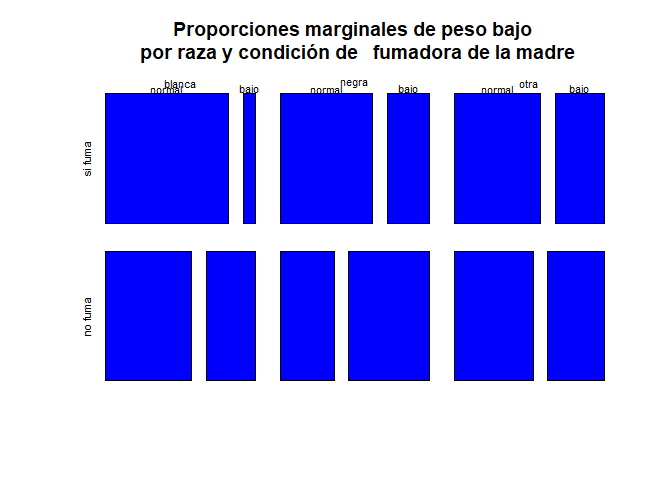
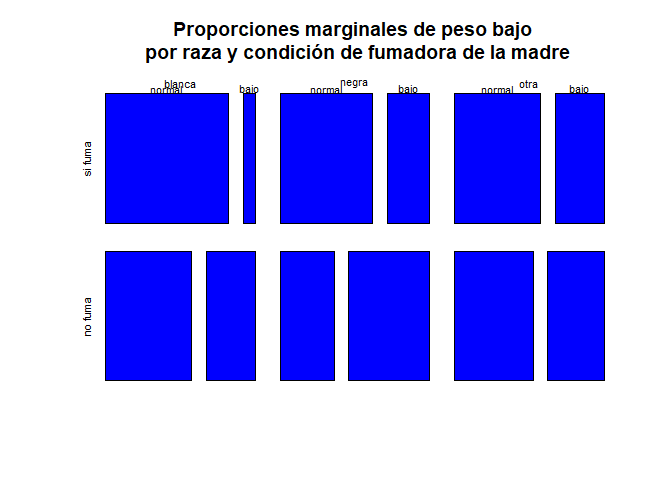
wraping code

Changed region(s): [[0.1875, 0.0938, 0.875, 0.125]]

diff --git a/talleres/peso_recien_nacidos/talle_peso_recien_nacidos.html b/talleres/peso_recien_nacidos/talle_peso_recien_nacidos.html
@@ -364,16 +364,20 @@ proporciones_marginales_raza_fumar</code></pre>
 ##   blanca 0.09090909 0.36538462
 ##   negra  0.31250000 0.60000000
 ##   otra   0.36363636 0.41666667</code></pre>
-<pre class="r"><code>plot(proporciones_marginales_raza_fumar,main=&quot;Proporciones marginales de peso bajo \n por raza y condición de   fumadora de la madre&quot;,col=&quot;blue&quot;)</code></pre>
[1 lines of base64/hex data omitted]
+<pre class="r"><code>plot(proporciones_marginales_raza_fumar,
+     main=&quot;Proporciones marginales de peso bajo \n por raza y condición de fumadora de la madre&quot;,
+     col=&quot;blue&quot;)</code></pre>
[1 lines of base64/hex data omitted]
 </div>
 <div id="solución-apartado-5" class="section level2" number="2.5">
 <h2><span class="header-section-number">2.5</span> Solución apartado 5</h2>
 <p>Dibujad un diagrama de barras por bloques que permita visualizar esta información (pensad cómo pasaréis de la tabla tridimensional a un diagrama de barras bidimensional que muestre la información deseada). Poned nombres adecuados a los bloques, colores a las barras, y añadid una leyenda que explique qué representa cada barra. ¿Se puede obtener alguna conclusión de esta tabla y de este diagrama de barras?</p>
 <p><strong>Solución</strong></p>
 <pre class="r"><code>par(mfrow=c(1,2))
-barplot(prop.table(frecuencias_tabla_raza_fumar_peso, margin=1)[,,1], beside=TRUE, legend.text=TRUE, ylim=c(0,0.6),main=&quot;Pon tu título....&quot;)
-barplot(prop.table(frecuencias_tabla_raza_fumar_peso, margin=1)[,,2], beside=TRUE, legend.text=TRUE, ylim=c(0,0.6),main=&quot;Pon tu título....&quot;)</code></pre>
+barplot(prop.table(frecuencias_tabla_raza_fumar_peso, margin=1)[,,1],
+        beside=TRUE, legend.text=TRUE, ylim=c(0,0.6),main=&quot;Pon tu título....&quot;)
+barplot(prop.table(frecuencias_tabla_raza_fumar_peso, margin=1)[,,2],
+        beside=TRUE, legend.text=TRUE, ylim=c(0,0.6),main=&quot;Pon tu título....&quot;)</code></pre>
[1 lines of base64/hex data omitted]
 <pre class="r"><code>par(mfrow=c(1,1))</code></pre>
 </div>
